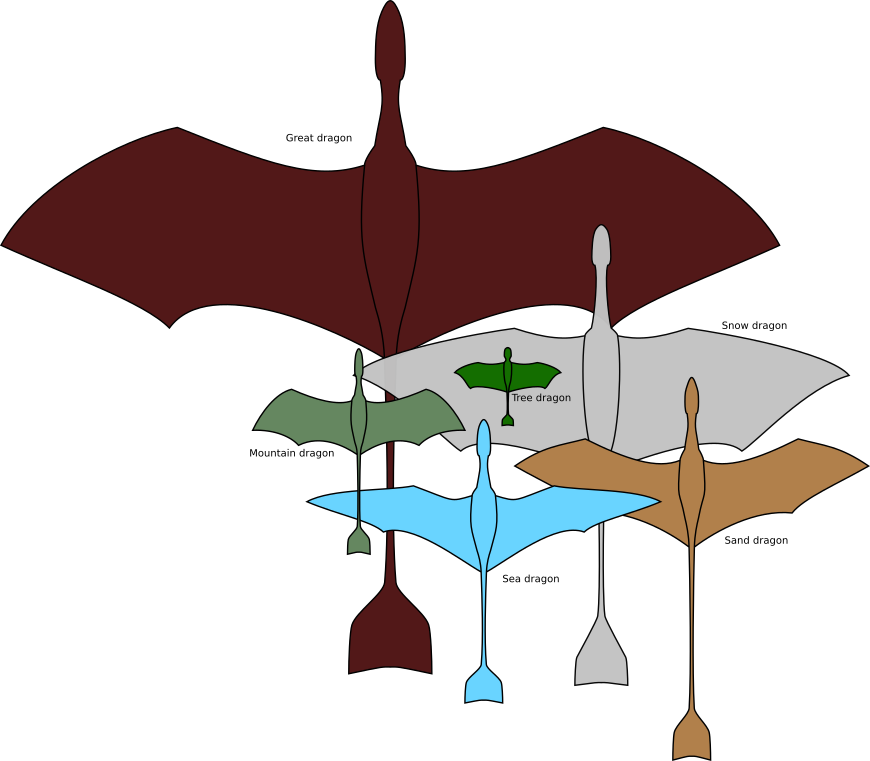
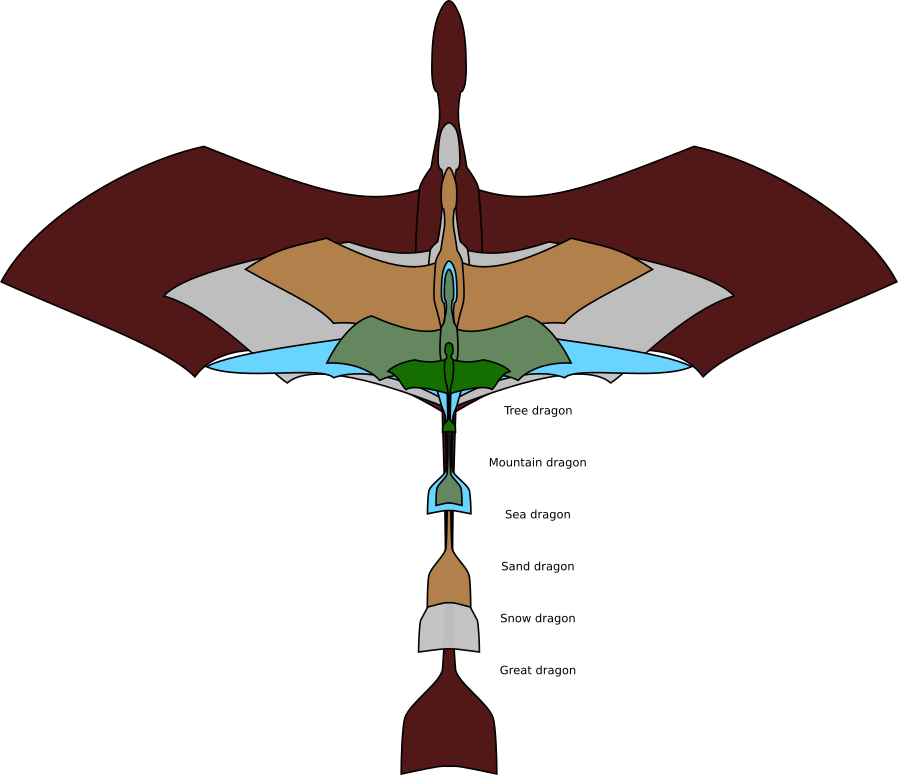
Added planform images, new size comparison

diff --git a/player-species/mountain-dragons.md b/player-species/mountain-dragons.md
@@ -1,10 +1,10 @@
-Mountain dragons
-================
+# Mountain dragons
 
 Before they developed technology, mountain dragons hunted among the peaks and canyons, soaring on the thermal air currents to find prey. They returned to rest in caves they found or dug into cliff- and hillsides, often many of them together in colonies that became tribes of sorts. As a result of these origins, mountain dragons today remain excellent rock climbers and fliers both, and most of them prefer living social, industrious lives in the big cities they build.
 
-Basic Information
------------------
+![Mountain dragon](../images/mt-dragon.png "Mountain dragon")
+
+## Basic Information
 
 ### Anatomy & Morphology
 
@@ -20,15 +20,13 @@ Mountain dragons generate a strongly corrosive mucus in their breath crop, allow
 
 Most at home in the foothills and canyons of mountains, highlands and other elevated areas are where the majority of this species is found. There they herd mountain goats and sheep, mine for metals and other precious minerals, and build cities of warrens and burrows.
 
-Additional Information
-----------------------
+## Additional Information
 
 ### Geographic Origin and Distribution
 
 Most major mountain ranges and highlands of the world are home to populations of mountain dragons. They seem equally able to adapt to tropical plateaus as to subarctic gorges and hills.
 
-Civilization and Culture
-------------------------
+## Civilization and Culture
 
 ### Average Technological Level
 
@@ -44,13 +42,13 @@ Small gifts are always brought when visiting if you mean to enter a dwelling. It
 
 Genetic Ancestor(s): [Dragons](/creatures/dragons.md)
 
-Scientific Name:   Draco montes
+Scientific Name: Draco montes
 
-Average Weight:   Around 500 lbs
+Average Weight: Around 500 lbs
 
-Average Length:   30 foot wingspan
+Average Length: 30 foot wingspan
 
-Body Tint, Colouring and Marking:   Many mountain dragons are patterned in browns, blacks, whites and grays, though russets ranging into quite brilliant reds and oranges are also found in some populations.
+Body Tint, Colouring and Marking: Many mountain dragons are patterned in browns, blacks, whites and grays, though russets ranging into quite brilliant reds and oranges are also found in some populations.
 
 ### Mountain dragon size analogies
 

diff --git a/player-species/sea-dragons.md b/player-species/sea-dragons.md
@@ -1,10 +1,10 @@
-Sea dragons
-===========
+# Sea dragons
 
 Almost every coast in the world has settlements of sea dragons, from tiny fishing hamlets to bustling port cities. Sea dragons are one of the few dragon species able to fly across seas on their own wing, and have played a major role in trade and communication between the different parts of the world as a consequence.
 
-Basic Information
------------------
+![Sea dragon](../images/sea-dragon.png "Sea dragon")
+
+## Basic Information
 
 ### Anatomy & Morphology
 
@@ -26,8 +26,7 @@ Sea dragons prefer seafood, but have taken well to land-based foods as well. Tra
 
 Fishing, including for shellfish, clams etc., is a major part of sea dragon industry, and provides a majority of the food eaten by the species. Hunting larger sea creatures like [wingfins](/creatures/wingfins.md) or [sea serpents](/creatures/sea-serpents.md) is also common, though less so.
 
-Civilization and Culture
-------------------------
+## Civilization and Culture
 
 ### Average Technological Level
 
@@ -43,13 +42,13 @@ A legend tells of the invention of the sail: A fisherdragon injured their wing a
 
 Genetic Ancestor(s): [Dragons](/creatures/dragons.md)
 
-Scientific Name:   Draco maris
+Scientific Name: Draco maris
 
-Average Weight:   1300 lbs.
+Average Weight: 1300 lbs.
 
-Average Length:   Wingspan of 50 feet.
+Average Length: Wingspan of 50 feet.
 
-Body Tint, Colouring and Marking:   Blues, greens and grays are common, occasionally in bright, startling nuances. Iridescence is uncommon, but found more in sea dragons than any other species. Countershading, where the underside is much lighter than the upper side, is very common, and can be as extreme as pure black and white in some individuals.
+Body Tint, Colouring and Marking: Blues, greens and grays are common, occasionally in bright, startling nuances. Iridescence is uncommon, but found more in sea dragons than any other species. Countershading, where the underside is much lighter than the upper side, is very common, and can be as extreme as pure black and white in some individuals.
 
 ### Sea dragon size analogies
 

diff --git a/player-species/snow-dragons.md b/player-species/snow-dragons.md
@@ -1,10 +1,10 @@
-Snow dragons
-============
+# Snow dragons
 
 Snowy conifer forests, windy tundras, sea ice, glaciers, and unrelentingly brutal winters are defining traits of the world's polar regions. Yet even here a species of dragons have made their home, the snow dragons.
 
-Basic Information
------------------
+![Snow dragon](../images/snow-dragon.png "Snow dragon")
+
+## Basic Information
 
 ### Anatomy & Morphology
 
@@ -28,21 +28,20 @@ Principal food sources vary by region and culture. Dragons inhabiting the coasts
 
 Tundras and forests provide larger prey, from as small as lemmings to as big as elk. With the right equipment and in groups, even solitary [hardnoses](/creatures/skithas.md) are vulnerable.
 
-Additional Information
-----------------------
+## Additional Information
 
 ### Perception and Sensory Capabilities
 
 Better hearing than other dragons, and large, night-adapted eyes. Snow dragons sport the most light-adaptable eyes of any dragon species, allowing them good eyesight in light environments ranging from moonless nights to ice sheets in sunshine.
 
 Genetic Ancestor(s):
- [Dragons](/creatures/dragons.md)
+[Dragons](/creatures/dragons.md)
 
-Scientific Name:   Draco nivis
+Scientific Name: Draco nivis
 
-Average Weight:   1-1.5 ton
+Average Weight: 1-1.5 ton
 
-Average Length:   60-70' wingspan
+Average Length: 60-70' wingspan
 
 Body Tint, Colouring and Marking: Mostly white, light grey or blue, with black, grey, dark blue or brown contrast markings. Underbellies are often a darker color than upper surfaces. Elaborate facial markings are common.
 

diff --git a/player-species/tree-dragons.md b/player-species/tree-dragons.md
@@ -1,10 +1,10 @@
-Tree dragons
-============
+# Tree dragons
 
 All but the coldest of the world's forests are home to the treehouse towns and cities of tree dragons. These **Smallest of dragons** are highly maneuverable fliers, gregarious and curious neighbors, avid culinarians and highly value athleticism.
 
-Basic Information
------------------
+![Tree dragon](../images/tree-dragon.png "Tree dragon")
+
+## Basic Information
 
 ### Anatomy & Morphology
 
@@ -26,15 +26,13 @@ Broadly omnivorous, tree dragons will consume a wide variety of foods. From natu
 
 Modern tree dragon cuisine is widely respected and sought after, with wide variety and a reputation of having **Something for every palate**.
 
-Additional Information
-----------------------
+## Additional Information
 
 ### Perception and Sensory Capabilities
 
 Large eyes adapted for low light and high dynamic range make these dragons well adapted to a life in dense forest canopy. They also have excellent hearing, though they fall short of true echolocation.
 
-Civilization and Culture
-------------------------
+## Civilization and Culture
 
 ### Average Technological Level
 
@@ -50,11 +48,11 @@ While customs differ widely across the world, most tree dragon peoples have some
 
 Genetic Ancestor(s): [Dragons](/creatures/dragons.md)
 
-Scientific Name:   Draco ligni
+Scientific Name: Draco ligni
 
-Average Weight:   Around 100 lbs.
+Average Weight: Around 100 lbs.
 
-Average Length:   Wingspan usually less than 15'.
+Average Length: Wingspan usually less than 15'.
 
 ### Tree dragon size analogies
 

diff --git a/player-species/sand-dragons.md b/player-species/sand-dragons.md
@@ -1,10 +1,10 @@
-Sand dragons
-============
+# Sand dragons
 
 The dry, hot regions of the world are home to sand dragons - a slenderly built and well adapted species of dragon.
 
-Basic Information
------------------
+![Sand dragon](../images/sand-dragon.png "Sand dragon")
+
+## Basic Information
 
 ### Anatomy & Morphology
 
@@ -18,8 +18,7 @@ An interesting side of the breath weapon of these dragons is that it does not em
 
 Food and water being scarce in their home regions, sand dragons have developed the ability to draw nutrients from many things. While they are principally hunters, they have **Hardy digestion and strong jaws**, meaning they can eat coarser plant material than most dragons, and have immunity or resistance to a number of plant toxins. This permits them to subsist off cactus and succulents to supplement more nutritious food sources.
 
-Civilization and Culture
-------------------------
+## Civilization and Culture
 
 ### Common Dress Code
 
@@ -33,11 +32,11 @@ Large permanent settlements have logistical difficulties in the desert regions o
 
 Genetic Ancestor(s): [Dragons](/creatures/dragons.md)
 
-Scientific Name:   Draco harenae
+Scientific Name: Draco harenae
 
-Average Weight:   500-600 lbs.
+Average Weight: 500-600 lbs.
 
-Average Length:   Wingspan typically between 40 and 50 feet.
+Average Length: Wingspan typically between 40 and 50 feet.
 
 ### Sand dragon size analogies
 

diff --git a/player-species/great-dragons.md b/player-species/great-dragons.md
@@ -1,10 +1,10 @@
-Great dragons
-=============
+# Great dragons
 
 The largest dragon species by almost two fold, the great dragons evolved from plains and light forest predators which mostly hunted from the ground.
 
-Basic Information
------------------
+![Great dragon](../images/great-dragon.png "Great dragon")
+
+## Basic Information
 
 ### Anatomy & Morphology
 
@@ -20,8 +20,7 @@ Being mighty predators in their own right, the great dragon breath crop has been
 
 Great dragons, while not obligate carnivores, require a high proportion of meat in their diet to stay healthy, and have high nutrient requirements from their size. The cuisine among them tends toward the simple but effective, with high carbohydrate and high fat ingredient foods being staples. Dishes are often derived from storage methods for travel food.
 
-Civilization and Culture
-------------------------
+## Civilization and Culture
 
 ### Average Technological Level
 
@@ -39,11 +38,11 @@ Most settlements of dragons across the world are visited by a number of great dr
 
 Genetic Ancestor(s): [Dragons](/creatures/dragons.md)
 
-Scientific Name:   Draco magnus
+Scientific Name: Draco magnus
 
-Average Weight:   5 tons
+Average Weight: 5 tons
 
-Average Length:   Wingspan 110 feet
+Average Length: Wingspan 110 feet
 
 ### Great dragon size analogies
 
